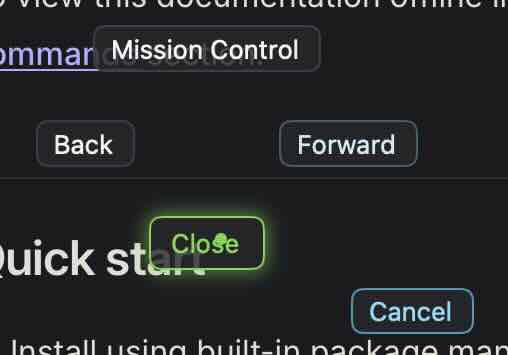
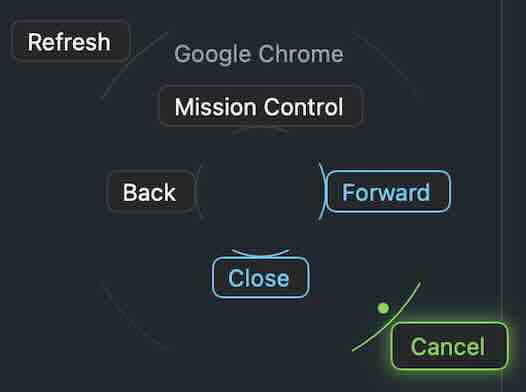
feat(compass): name the app above the gestures, arcs around the press
Show passes the frontmost app's name, drawn muted above the up label's
place and under the corner labels. An arc around the press faces each
of the eight directions: one with a gesture is lit like its label, axis
arcs touching the label's near edge and diagonal ones its inner corner;
one without keeps a faded arc, as a release there does nothing.

diff --git a/internal/hud/compass.go b/internal/hud/compass.go
@@ -33,6 +33,20 @@ const (
 	// from being cut off.
 	glowRoom = glowBlur + glowSpread + 2
 	dotSize  = 6
+	// appGap is the distance from the top of the up label to the name
+	// of the app the gestures are of, shown above it.
+	appGap = 6
+	// arcHalfDeg and cornerArcHalfDeg are half the angular span of the
+	// arc under an axis label and a diagonal one, the latter narrower as
+	// its labels are farther out.
+	arcHalfDeg       = 25
+	cornerArcHalfDeg = 15
+	// cornerArcRadius reaches the inner corner of a diagonal label,
+	// cornerGap out on both axes, so that the arc touches it.
+	cornerArcRadius = cornerGap * math.Sqrt2
+	// arcReach is the room the arcs need on both sides of the middle,
+	// the farthest ones and their stroke, with or without labels.
+	arcReach = cornerArcRadius + pillBorder
 	// compassOpacity is the compass's when shown: its labels are small,
 	// so they need not let what they cover show through.
 	compassOpacity = 1
@@ -43,6 +57,9 @@ const (
 
 // Colors of the progress of a gesture.
 var (
+	// idleArcAlpha fades the arc of a direction without a gesture, a
+	// frame around the pointer rather than a target.
+	idleArcAlpha  = float32(0.5)
 	progressColor = ui.Hex("#3fd2ff")
 	// armedColor tells that releasing runs the gesture.
 	armedColor = keyColor
@@ -177,8 +194,10 @@ type Compass struct {
 
 	// mu guards the gestures shown, the pointer's offset from the press
 	// and the polling.
-	mu     sync.Mutex
-	dirs   Directions
+	mu   sync.Mutex
+	dirs Directions
+	// app is the name of the app the gestures are of, shown above them.
+	app    string
 	dx, dy float64
 	// stop stops the poller of the last show, nil while hidden; a poller
 	// whose stop is no longer it is stale and stops writing.
@@ -206,14 +225,15 @@ func NewCompass(tray *mygo.Tray) *Compass {
 	return c
 }
 
-// Show shows dirs in the compass centered on the press at x, y, in
-// CoreGraphics coordinates, and follows the pointer until Hide.
-func (c *Compass) Show(dirs Directions, x, y float64) {
+// Show shows dirs, the gestures over the app named app, in the compass
+// centered on the press at x, y, in CoreGraphics coordinates, and
+// follows the pointer until Hide.
+func (c *Compass) Show(dirs Directions, app string, x, y float64) {
 	c.mu.Lock()
 	c.stopPolling()
 	stop := make(chan struct{})
 	c.stop = stop
-	c.dirs = dirs
+	c.dirs, c.app = dirs, app
 	c.dx, c.dy = 0, 0
 	c.mu.Unlock()
 	go c.poll(stop, x, y)
@@ -229,7 +249,7 @@ func (c *Compass) Show(dirs Directions, x, y float64) {
 func (c *Compass) Hide() {
 	c.mu.Lock()
 	c.stopPolling()
-	c.dirs = Directions{}
+	c.dirs, c.app = Directions{}, ""
 	c.mu.Unlock()
 	c.win.Update(c.win.Hide)
 }
@@ -307,12 +327,12 @@ func centeredAt(center mygo.Point, width, height int, area mygo.Rectangle) mygo.
 
 func (c *Compass) view(ctx *ui.Context) {
 	c.mu.Lock()
-	d, dx, dy := c.dirs, c.dx, c.dy
+	d, app, dx, dy := c.dirs, c.app, c.dx, c.dy
 	c.mu.Unlock()
 	// The labels stay around the window's middle; the dot is drawn at
 	// the pointer, which is off the middle by the shift.
 	dotX, dotY := float64(c.shift.X)+dx, float64(c.shift.Y)+dy
-	w, h := buildCompass(ctx, d, progressOf(dx, dy), dotX, dotY)
+	w, h := buildCompass(ctx, d, app, progressOf(dx, dy), dotX, dotY)
 	// The compass is hidden while no button is held: keep its size, so a
 	// press does not resize it from empty.
 	if d.Empty() {
@@ -347,18 +367,60 @@ func styleOf(th *ui.Theme, t float32, armed bool) pillStyle {
 	}
 }
 
+// arcPath is an arc of radius r around cx, cy, spanning halfDeg either
+// side of midDeg, degrees clockwise from the right as y points down. One
+// cubic approximates it, to a fraction of a pixel under 90°.
+func arcPath(cx, cy, r, midDeg, halfDeg float32) *ui.Path {
+	a0 := float64(midDeg-halfDeg) * math.Pi / 180
+	a1 := float64(midDeg+halfDeg) * math.Pi / 180
+	k := float32(4.0 / 3.0 * math.Tan((a1-a0)/4))
+	x0, y0 := float32(math.Cos(a0)), float32(math.Sin(a0))
+	x1, y1 := float32(math.Cos(a1)), float32(math.Sin(a1))
+	return (&ui.Path{}).
+		MoveTo(cx+r*x0, cy+r*y0).
+		CubeTo(cx+r*(x0-k*y0), cy+r*(y0+k*x0), cx+r*(x1+k*y1), cy+r*(y1-k*x1), cx+r*x1, cy+r*y1)
+}
+
+// arcOf is the radius and middle angle of the arc under dir's label,
+// for arcPath: an axis arc touches its label's near edge, a diagonal
+// one its label's inner corner.
+func arcOf(dir gesture.Direction) (r, midDeg, halfDeg float32) {
+	switch dir {
+	case gesture.Up:
+		return cursorGap, 270, arcHalfDeg
+	case gesture.Down:
+		return cursorGap, 90, arcHalfDeg
+	case gesture.Left:
+		return cursorGap, 180, arcHalfDeg
+	case gesture.Right:
+		return cursorGap, 0, arcHalfDeg
+	case gesture.UpLeft:
+		return cornerArcRadius, 225, cornerArcHalfDeg
+	case gesture.UpRight:
+		return cornerArcRadius, 315, cornerArcHalfDeg
+	case gesture.DownLeft:
+		return cornerArcRadius, 135, cornerArcHalfDeg
+	case gesture.DownRight:
+		return cornerArcRadius, 45, cornerArcHalfDeg
+	}
+	return 0, 0, 0
+}
+
 // buildCompass builds the labels of d around the middle, lit by p, and
 // the dot of the pointer dx, dy from the middle; it returns the content
-// size they need.
-func buildCompass(c *ui.Context, d Directions, p Progress, dx, dy float64) (width, height float32) {
+// size they need. Under the labels, an arc around the middle faces each
+// one, lit like it, the up one touching its label; the name of the app,
+// unless empty, sits above the up label, under the corner labels should
+// they reach it.
+func buildCompass(c *ui.Context, d Directions, app string, p Progress, dx, dy float64) (width, height float32) {
 	th := c.Theme()
-	c.Root().Background(ui.Transparent)
 	type label struct {
 		dir   gesture.Direction
 		title string
 		// textW and textH are the title's size; w and h the label's at
-		// rest, without the growth of an armed one.
+		// rest, without the growth of an armed one; st is how it looks.
 		textW, textH, w, h float32
+		st                 pillStyle
 	}
 	var labels []label
 	var sideW, sideH, stackW, stackH, cornerW, cornerH float32
@@ -370,7 +432,8 @@ func buildCompass(c *ui.Context, d Directions, p Progress, dx, dy float64) (widt
 		tw, tht := c.MeasureText(0, ui.Span{Text: title, Size: fontSize})
 		tw += slack
 		l := label{dir: dir, title: title, textW: tw, textH: tht,
-			w: tw + 2*(pillPadX+pillBorder), h: tht + 2*(pillPadY+pillBorder)}
+			w: tw + 2*(pillPadX+pillBorder), h: tht + 2*(pillPadY+pillBorder),
+			st: styleOf(th, p.of(dir), p.Armed == dir)}
 		labels = append(labels, l)
 		switch dir {
 		case gesture.Up, gesture.Down:
@@ -390,13 +453,43 @@ func buildCompass(c *ui.Context, d Directions, p Progress, dx, dy float64) (widt
 	if cornerW > 0 {
 		cornerX, cornerY = 2*(cornerGap+cornerW+grow), 2*(cornerGap+cornerH+grow)
 	}
-	width = max(2*(cursorGap+sideW+grow), stackW+grow, cornerX) + 2*glowRoom
-	height = max(2*(cursorGap+stackH+grow), sideH+grow, cornerY) + 2*glowRoom
+	// The app's name goes appGap above the up label's place, whether it
+	// has a gesture or not; the window stays centered on the press, so
+	// the room it takes is added below too.
+	var appW, appH, appRoom float32
+	if app != "" {
+		appW, appH = c.MeasureText(0, ui.Span{Text: app, Size: fontSize})
+		appW += slack
+		appRoom = appGap + appH
+	}
+	width = max(2*(cursorGap+sideW+grow), stackW+grow, appW, cornerX, 2*arcReach) + 2*glowRoom
+	height = max(2*(cursorGap+stackH+grow+appRoom), sideH+grow, cornerY, 2*arcReach) + 2*glowRoom
 	midX, midY := width/2, height/2
 
+	// Every direction gets an arc, so that the ones with gestures read
+	// against the whole; a direction without one keeps a faded arc, as
+	// a release there does nothing.
+	arcColor := make(map[gesture.Direction]ui.Color, len(labels))
 	for _, l := range labels {
-		armed := p.Armed == l.dir
-		st := styleOf(th, p.of(l.dir), armed)
+		arcColor[l.dir] = l.st.border
+	}
+	c.Root().Background(ui.Transparent).Draw(func(pt *ui.Painter, _ ui.Rect) {
+		for _, dir := range compassDirs {
+			color, ok := arcColor[dir]
+			if !ok {
+				color = th.Border.Alpha(idleArcAlpha)
+			}
+			r, mid, half := arcOf(dir)
+			pt.StrokePath(arcPath(midX, midY, r, mid, half), pillBorder, color)
+		}
+	})
+	if app != "" {
+		ui.Text(c, app).Absolute().Left(midX - appW/2).Top(midY - cursorGap - stackH - grow - appRoom).
+			Width(appW).Height(appH).FontSize(fontSize).TextColor(th.TextMuted).NoWrap()
+	}
+
+	for _, l := range labels {
+		st := l.st
 		w, h := l.w+2*st.pad, l.h+2*st.pad
 		// The near edge stays cursorGap from the middle as a label grows,
 		// and the inner corner of a diagonal label cornerGap on both axes.

diff --git a/internal/hud/compass_test.go b/internal/hud/compass_test.go
@@ -85,9 +85,15 @@ func TestProgressOfDiagonal(t *testing.T) {
 // compassTester builds the compass of *d at *p, sized to what it needs.
 func compassTester(t *testing.T, d *Directions, p *Progress) (*ui.Tester, *[2]float32) {
 	t.Helper()
+	return compassAppTester(t, d, "", p)
+}
+
+// compassAppTester is compassTester over the app named app.
+func compassAppTester(t *testing.T, d *Directions, app string, p *Progress) (*ui.Tester, *[2]float32) {
+	t.Helper()
 	var size [2]float32
 	tt := ui.NewTester(func(c *ui.Context) {
-		w, h := buildCompass(c, *d, *p, 0, 0)
+		w, h := buildCompass(c, *d, app, *p, 0, 0)
 		size = [2]float32{w, h}
 	}, 600, 400)
 	tt.SetSize(int(math.Ceil(float64(size[0]))), int(math.Ceil(float64(size[1]))))
@@ -139,7 +145,9 @@ func TestCompassCorners(t *testing.T) {
 	tt.SetSize(int(math.Ceil(float64(size[0]))), int(math.Ceil(float64(size[1]))))
 	tt.Frame()
 	savePNG(t, tt, "compass-corners")
-	larger := size[0] > cardinal[0] && size[1] > cardinal[1]
+	// The room kept for the arcs may already hold the corner labels'
+	// height, but not their width.
+	larger := size[0] > cardinal[0] && size[1] >= cardinal[1]
 	if !larger {
 		t.Errorf("size with corners %v, not larger than %v", *size, cardinal)
 	}
@@ -227,5 +235,63 @@ func TestCompassEmptyKeepsNothing(t *testing.T) {
 	tt, _ := compassTester(t, &d, &p)
 	if texts := tt.Texts(); len(texts) != 0 {
 		t.Fatalf("texts %q", texts)
+	}
+}
+
+func TestCompassApp(t *testing.T) {
+	d := Directions{Up: "Mission Control"}
+	p := Progress{}
+	tt, size := compassAppTester(t, &d, "Safari", &p)
+	savePNG(t, tt, "compass-app")
+	app, ok := tt.Find("Safari")
+	if !ok {
+		t.Fatalf("missing app in %q", tt.Texts())
+	}
+	up, _ := tt.Find("Mission Control")
+	midX := size[0] / 2
+	above := app.Y+app.H <= up.Y && app.X < midX && app.X+app.W > midX
+	if !above {
+		t.Errorf("app %+v not above the up label %+v", app, up)
+	}
+	fits := app.Y >= 0 && app.X >= 0 && app.X+app.W <= size[0]
+	if !fits {
+		t.Errorf("app %+v does not fit %v", app, *size)
+	}
+	// Without an up gesture, the name sits where it would with one.
+	d2 := Directions{Left: "Back"}
+	tt2, size2 := compassAppTester(t, &d2, "Safari", &p)
+	app2, _ := tt2.Find("Safari")
+	if below := app2.Y+app2.H > size2[1]/2-cursorGap; below {
+		t.Errorf("app %+v reaches under the up label's place", app2)
+	}
+}
+
+func TestArcPath(t *testing.T) {
+	// The up arc peaks cursorGap above the middle, where the up label's
+	// bottom edge is, and spans both sides of it. Bounds takes in the
+	// control points, a little past the arc.
+	b := arcPath(100, 100, cursorGap, 270, arcHalfDeg).Bounds()
+	top := float32(100 - cursorGap)
+	if b.Y > top || b.Y < top-2 {
+		t.Errorf("up arc top %v, want just above %v", b.Y, top)
+	}
+	if !(b.X < 100 && b.X+b.W > 100 && b.Y+b.H < 100) {
+		t.Errorf("up arc %+v not over the middle", b)
+	}
+	// A right arc stays right of the middle, around its level.
+	if b := arcPath(100, 100, cursorGap, 0, arcHalfDeg).Bounds(); b.X <= 100 || b.Y > 100 || b.Y+b.H < 100 {
+		t.Errorf("right arc %+v not at the right", b)
+	}
+}
+
+func TestCompassFitsArcs(t *testing.T) {
+	// With only an up gesture, the window still holds the arcs of the
+	// other directions, the corner ones farthest out.
+	d := Directions{Up: "Up"}
+	p := Progress{}
+	tt, size := compassTester(t, &d, &p)
+	savePNG(t, tt, "compass-arcs")
+	if size[0] < 2*arcReach || size[1] < 2*arcReach {
+		t.Errorf("size %v does not hold the arcs, %v across", *size, 2*arcReach)
 	}
 }

diff --git a/main_gesture_test.go b/main_gesture_test.go
@@ -81,10 +81,14 @@ func (f *fakeIO) eventIO() eventIO {
 }
 
 // hudFuncs sets b's gesture compass to stand-ins: a show is recorded as
-// its directions and the press, a hide as "hide".
+// its directions and the press, "over" the app if named, a hide as "hide".
 func (f *fakeIO) hudFuncs(b *burin) {
-	b.showGestureHUD = func(d hud.Directions, x, y float64) {
-		f.hud = append(f.hud, fmt.Sprintf("%+v@%v,%v", d, x, y))
+	b.showGestureHUD = func(d hud.Directions, app string, x, y float64) {
+		s := fmt.Sprintf("%+v@%v,%v", d, x, y)
+		if app != "" {
+			s += " over " + app
+		}
+		f.hud = append(f.hud, s)
 	}
 	b.hideGestureHUD = func() { f.hud = append(f.hud, "hide") }
 }
@@ -399,11 +403,11 @@ func TestGestureHUD(t *testing.T) {
 	b, f, _ := newGestureBurin(t)
 	f.front = workspace.App{Name: "Notes"}
 	b.handleGesture(gesture.EventRightMouseDown, rightDown)
-	f.checkHUD("{Up: Down: Left:Back Right: UpLeft: UpRight: DownLeft: DownRight:}@500,500")
+	f.checkHUD("{Up: Down: Left:Back Right: UpLeft: UpRight: DownLeft: DownRight:}@500,500 over Notes")
 	drag(b, f)
-	f.checkHUD("{Up: Down: Left:Back Right: UpLeft: UpRight: DownLeft: DownRight:}@500,500")
+	f.checkHUD("{Up: Down: Left:Back Right: UpLeft: UpRight: DownLeft: DownRight:}@500,500 over Notes")
 	b.handleGesture(gesture.EventRightMouseUp, rightUp)
-	f.checkHUD("{Up: Down: Left:Back Right: UpLeft: UpRight: DownLeft: DownRight:}@500,500", "hide")
+	f.checkHUD("{Up: Down: Left:Back Right: UpLeft: UpRight: DownLeft: DownRight:}@500,500 over Notes", "hide")
 
 	// A gesture over Safari also shows its rule, untitled.
 	b, f, _ = newGestureBurin(t)
@@ -411,7 +415,7 @@ func TestGestureHUD(t *testing.T) {
 	b.handleGesture(gesture.EventRightMouseDown, rightDown)
 	releaseBy(f, -50, 0)
 	b.handleGesture(gesture.EventRightMouseUp, rightUp)
-	f.checkHUD("{Up:up Down: Left:Back Right: UpLeft: UpRight: DownLeft: DownRight:}@500,500", "hide")
+	f.checkHUD("{Up:up Down: Left:Back Right: UpLeft: UpRight: DownLeft: DownRight:}@500,500 over Safari", "hide")
 
 	// A button without rules shows nothing: its press and release hide.
 	b, f, _ = newGestureBurin(t)

diff --git a/main.go b/main.go
@@ -103,9 +103,10 @@ type burin struct {
 	// hudGen drops the show anyway.
 	after    func(d time.Duration, fn func()) *time.Timer
 	hudTimer *time.Timer
-	// showGestureHUD shows the gestures by direction around the press at
-	// x, y, and hideGestureHUD hides them. Tests stand in for them.
-	showGestureHUD func(dirs hud.Directions, x, y float64)
+	// showGestureHUD shows the gestures by direction, over the app named
+	// app, around the press at x, y, and hideGestureHUD hides them. Tests
+	// stand in for them.
+	showGestureHUD func(dirs hud.Directions, app string, x, y float64)
 	hideGestureHUD func()
 
 	// tapMu guards the event tap, which is rebuilt when the mouse buttons
@@ -489,7 +490,8 @@ func (b *burin) stopHUDTimer() {
 func (b *burin) showHUD(gen uint64, button gesture.Button, x, y float64) {
 	set := b.gestures.Load()
 	b.spawn(func() {
-		dirs := gestureDirections(set.Available(button, b.io.frontApp()))
+		app := b.io.frontApp()
+		dirs := gestureDirections(set.Available(button, app))
 		b.ifLatestHUD(gen, func() {
 			// With nothing to show, the gestures of an earlier press still
 			// go: its release's hide may have been dropped as stale.
@@ -497,7 +499,7 @@ func (b *burin) showHUD(gen uint64, button gesture.Button, x, y float64) {
 				b.hideGestureHUD()
 				return
 			}
-			b.showGestureHUD(dirs, x, y)
+			b.showGestureHUD(dirs, app.Name, x, y)
 		})
 	})
 }
@@ -538,9 +540,9 @@ func gestureDirections(rules []gesture.Rule) hud.Directions {
 }
 
 // showGestureCompass is showGestureHUD of the running app.
-func (b *burin) showGestureCompass(dirs hud.Directions, x, y float64) {
+func (b *burin) showGestureCompass(dirs hud.Directions, app string, x, y float64) {
 	if c := b.compass.Load(); c != nil {
-		c.Show(dirs, x, y)
+		c.Show(dirs, app, x, y)
 	}
 }
 
